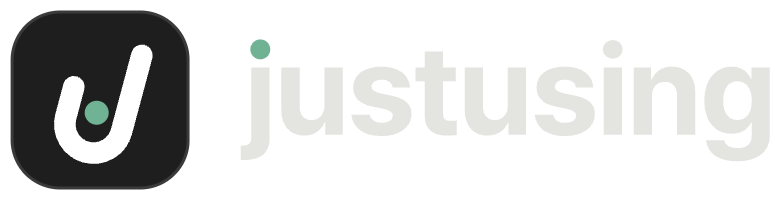
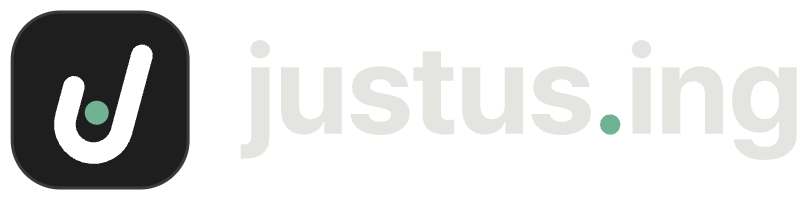
fix(layout): 글자 로고를 justus.ing으로 바꾸고 마침표를 초록으로 수정
j의 점만 초록으로 칠한 글자 로고도 점핏 글자 로고(Jumpit의 j 점이 초록)와 같았다.
도메인 그대로 justus.ing으로 쓰고 마침표만 초록으로 칠해 ".ing(지금 쓰는 중)"을 살린다.

diff --git a/src/brand/logo.ts b/src/brand/logo.ts
@@ -4,7 +4,7 @@
  *
  * - 심볼: 둥근 검정 네모 안에 15° 기울인 흰 j. 꼬리를 말아 올려 u처럼도 보인다 (j인지 u인지 헷갈리는 것이 핵심).
  *   초록 점은 j 머리 위가 아니라 u 그릇 안에 둔다. 머리 위에 두면 점핏(Jumpit) 로고와 같아진다.
- * - 글자: Pretendard Bold로 쓴 "justusing"을 도형으로 바꾼 것. j의 점만 따로 떼어 초록으로 칠한다.
+ * - 글자: Pretendard Bold로 쓴 "justus.ing"(도메인)을 도형으로 바꾼 것. 마침표만 초록이다.
  */
 
 /** 심볼 색. 화면 테마와 상관없이 늘 같다 (앱 아이콘처럼). 점은 사이트 다크 테마의 초록 */
@@ -31,11 +31,11 @@ export const MARK = {
   dot: { cx: 0, cy: 6, r: 5 },
 } as const;
 
-/** 글자 로고 (Pretendard Bold, 2048 단위). 기준선이 y=0 */
+/** 글자 로고 (Pretendard Bold, 2048 단위). 기준선이 y=0. dot은 justus와 ing 사이의 마침표 */
 export const WORDMARK = {
-  box: { x: 0, y: -1530, width: 8604.32, height: 1938 },
-  ink: 'M116 -1086V50C116 132 80 176 -16 176C-30 176 -40 174 -56 174V406L4 408C258 408 412 304 412 54V-1086Z M1297.04 -462C1297.04 -314 1195.04 -236 1087.04 -236C971.04 -236 897.04 -318 897.04 -446V-1086H601.04V-394C601.04 -140 749.04 14 967.04 14C1131.04 14 1247.04 -70 1297.04 -196H1309.04V0H1593.04V-1086H1297.04Z M2402.08 -764H2680.08C2664.08 -970 2494.08 -1100 2220.08 -1100C1940.08 -1100 1760.08 -970 1762.08 -762C1760.08 -602 1868.08 -494 2074.08 -454L2254.08 -418C2356.08 -396 2402.08 -362 2402.08 -306C2402.08 -236 2330.08 -192 2222.08 -192C2114.08 -192 2044.08 -236 2030.08 -322H1732.08C1756.08 -110 1928.08 22 2222.08 22C2510.08 22 2702.08 -122 2704.08 -336C2702.08 -492 2600.08 -586 2390.08 -630L2196.08 -670C2094.08 -692 2054.08 -730 2056.08 -778C2054.08 -844 2128.08 -890 2224.08 -890C2322.08 -890 2390.08 -840 2402.08 -764Z M3417.12 -1086H3213.12V-1346H2917.12V-1086H2767.12V-864H2917.12V-292C2915.12 -82 3061.12 14 3275.12 14C3349.12 14 3401.12 10 3433.12 4V-230C3397.12 -226 3345.12 -224 3315.12 -224C3255.12 -226 3213.12 -248 3213.12 -334V-864H3417.12Z M4258.16 -462C4258.16 -314 4156.16 -236 4048.16 -236C3932.16 -236 3858.16 -318 3858.16 -446V-1086H3562.16V-394C3562.16 -140 3710.16 14 3928.16 14C4092.16 14 4208.16 -70 4258.16 -196H4270.16V0H4554.16V-1086H4258.16Z M5363.2 -764H5641.2C5625.2 -970 5455.2 -1100 5181.2 -1100C4901.2 -1100 4721.2 -970 4723.2 -762C4721.2 -602 4829.2 -494 5035.2 -454L5215.2 -418C5317.2 -396 5363.2 -362 5363.2 -306C5363.2 -236 5291.2 -192 5183.2 -192C5075.2 -192 5005.2 -236 4991.2 -322H4693.2C4717.2 -110 4889.2 22 5183.2 22C5471.2 22 5663.2 -122 5665.2 -336C5663.2 -492 5561.2 -586 5351.2 -630L5157.2 -670C5055.2 -692 5015.2 -730 5017.2 -778C5015.2 -844 5089.2 -890 5185.2 -890C5283.2 -890 5351.2 -840 5363.2 -764Z M5806.24 0H6102.24V-1086H5806.24Z M5954.24 -1228C6042.24 -1228 6114.24 -1296 6114.24 -1378C6114.24 -1462 6042.24 -1530 5954.24 -1530C5864.24 -1530 5792.24 -1462 5792.24 -1378C5792.24 -1296 5864.24 -1228 5954.24 -1228Z M6587.28 -628C6587.28 -772 6671.28 -854 6795.28 -854C6917.28 -854 6991.28 -774 6991.28 -640V0H7285.28V-692C7287.28 -946 7137.28 -1100 6911.28 -1100C6751.28 -1100 6635.28 -1022 6585.28 -896H6573.28V-1086H6291.28V0H6587.28Z M7962.32 430C8270.32 430 8490.32 288 8490.32 12V-1086H8196.32V-904H8184.32C8144.32 -992 8056.32 -1100 7874.32 -1100C7634.32 -1100 7432.32 -918 7432.32 -550C7432.32 -188 7628.32 -16 7874.32 -16C8048.32 -16 8144.32 -104 8184.32 -192H8198.32V6C8198.32 158 8106.32 216 7968.32 216C7850.32 216 7768.32 176 7752.32 90H7460.32C7478.32 296 7662.32 430 7962.32 430Z M7966.32 -238C7816.32 -238 7736.32 -358 7736.32 -546C7736.32 -734 7816.32 -864 7966.32 -864C8114.32 -864 8198.32 -740 8198.32 -546C8198.32 -354 8114.32 -238 7966.32 -238Z',
-  dot: { cx: 261.0, cy: -1379.0, r: 161.0 },
+  box: { x: 0, y: -1530, width: 9141.36, height: 1960 },
+  ink: 'M116 -1086V50C116 132 80 176 -16 176C-30 176 -40 174 -56 174V406L4 408C258 408 412 304 412 54V-1086ZM262 -1228C350 -1228 422 -1296 422 -1378C422 -1462 350 -1530 262 -1530C172 -1530 100 -1462 100 -1378C100 -1296 172 -1228 262 -1228Z M1297.04 -462C1297.04 -314 1195.04 -236 1087.04 -236C971.04 -236 897.04 -318 897.04 -446V-1086H601.04V-394C601.04 -140 749.04 14 967.04 14C1131.04 14 1247.04 -70 1297.04 -196H1309.04V0H1593.04V-1086H1297.04Z M2402.08 -764H2680.08C2664.08 -970 2494.08 -1100 2220.08 -1100C1940.08 -1100 1760.08 -970 1762.08 -762C1760.08 -602 1868.08 -494 2074.08 -454L2254.08 -418C2356.08 -396 2402.08 -362 2402.08 -306C2402.08 -236 2330.08 -192 2222.08 -192C2114.08 -192 2044.08 -236 2030.08 -322H1732.08C1756.08 -110 1928.08 22 2222.08 22C2510.08 22 2702.08 -122 2704.08 -336C2702.08 -492 2600.08 -586 2390.08 -630L2196.08 -670C2094.08 -692 2054.08 -730 2056.08 -778C2054.08 -844 2128.08 -890 2224.08 -890C2322.08 -890 2390.08 -840 2402.08 -764Z M3417.12 -1086H3213.12V-1346H2917.12V-1086H2767.12V-864H2917.12V-292C2915.12 -82 3061.12 14 3275.12 14C3349.12 14 3401.12 10 3433.12 4V-230C3397.12 -226 3345.12 -224 3315.12 -224C3255.12 -226 3213.12 -248 3213.12 -334V-864H3417.12Z M4258.16 -462C4258.16 -314 4156.16 -236 4048.16 -236C3932.16 -236 3858.16 -318 3858.16 -446V-1086H3562.16V-394C3562.16 -140 3710.16 14 3928.16 14C4092.16 14 4208.16 -70 4258.16 -196H4270.16V0H4554.16V-1086H4258.16Z M5363.2 -764H5641.2C5625.2 -970 5455.2 -1100 5181.2 -1100C4901.2 -1100 4721.2 -970 4723.2 -762C4721.2 -602 4829.2 -494 5035.2 -454L5215.2 -418C5317.2 -396 5363.2 -362 5363.2 -306C5363.2 -236 5291.2 -192 5183.2 -192C5075.2 -192 5005.2 -236 4991.2 -322H4693.2C4717.2 -110 4889.2 22 5183.2 22C5471.2 22 5663.2 -122 5665.2 -336C5663.2 -492 5561.2 -586 5351.2 -630L5157.2 -670C5055.2 -692 5015.2 -730 5017.2 -778C5015.2 -844 5089.2 -890 5185.2 -890C5283.2 -890 5351.2 -840 5363.2 -764Z M6343.28 0H6639.28V-1086H6343.28ZM6491.28 -1228C6579.28 -1228 6651.28 -1296 6651.28 -1378C6651.28 -1462 6579.28 -1530 6491.28 -1530C6401.28 -1530 6329.28 -1462 6329.28 -1378C6329.28 -1296 6401.28 -1228 6491.28 -1228Z M7124.32 -628C7124.32 -772 7208.32 -854 7332.32 -854C7454.32 -854 7528.32 -774 7528.32 -640V0H7822.32V-692C7824.32 -946 7674.32 -1100 7448.32 -1100C7288.32 -1100 7172.32 -1022 7122.32 -896H7110.32V-1086H6828.32V0H7124.32Z M8499.36 430C8807.36 430 9027.36 288 9027.36 12V-1086H8733.36V-904H8721.36C8681.36 -992 8593.36 -1100 8411.36 -1100C8171.36 -1100 7969.36 -918 7969.36 -550C7969.36 -188 8165.36 -16 8411.36 -16C8585.36 -16 8681.36 -104 8721.36 -192H8735.36V6C8735.36 158 8643.36 216 8505.36 216C8387.36 216 8305.36 176 8289.36 90H7997.36C8015.36 296 8199.36 430 8499.36 430ZM8503.36 -238C8353.36 -238 8273.36 -358 8273.36 -546C8273.36 -734 8353.36 -864 8503.36 -864C8651.36 -864 8735.36 -740 8735.36 -546C8735.36 -354 8651.36 -238 8503.36 -238Z',
+  dot: 'M5980.24 18C6068.24 18 6146.24 -58 6146.24 -150C6146.24 -242 6068.24 -316 5980.24 -316C5886.24 -316 5810.24 -242 5812.24 -150C5810.24 -58 5886.24 18 5980.24 18Z',
 } as const;
 
 /** 심볼 + 글자 가로 배치 (viewBox 0 0 LOCKUP.width 100). 글자 높이는 심볼의 60% */
@@ -67,8 +67,7 @@ export function markShapes(c: MarkColors = MARK_COLORS): string {
 
 /** 글자 로고 SVG 내용 (2048 단위 좌표) */
 export function wordmarkShapes(ink: string, dot: string): string {
-  const d = WORDMARK.dot;
-  return `<path d="${WORDMARK.ink}" fill="${ink}"/><circle cx="${d.cx}" cy="${d.cy}" r="${d.r}" fill="${dot}"/>`;
+  return `<path d="${WORDMARK.ink}" fill="${ink}"/><path d="${WORDMARK.dot}" fill="${dot}"/>`;
 }
 
 const svg = (viewBox: string, body: string) =>
